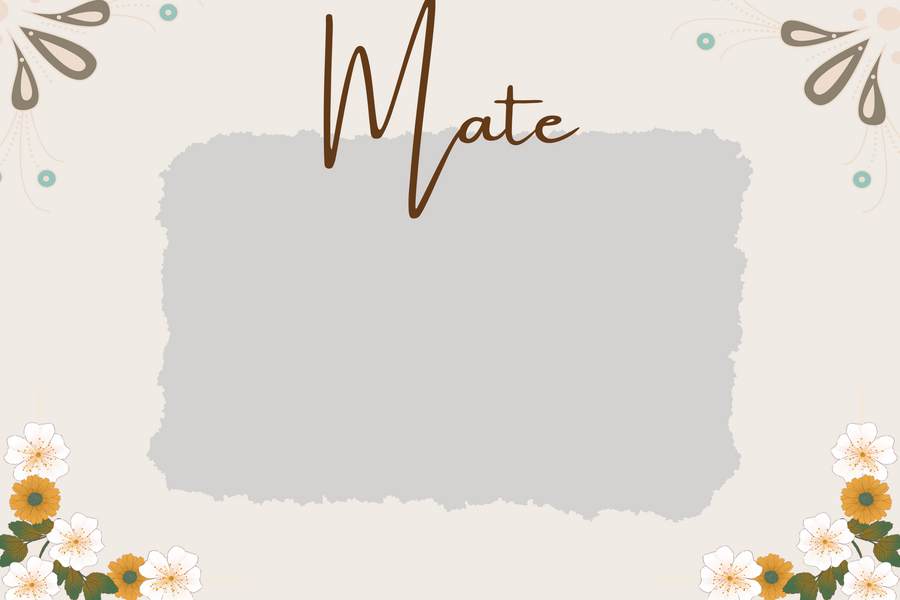
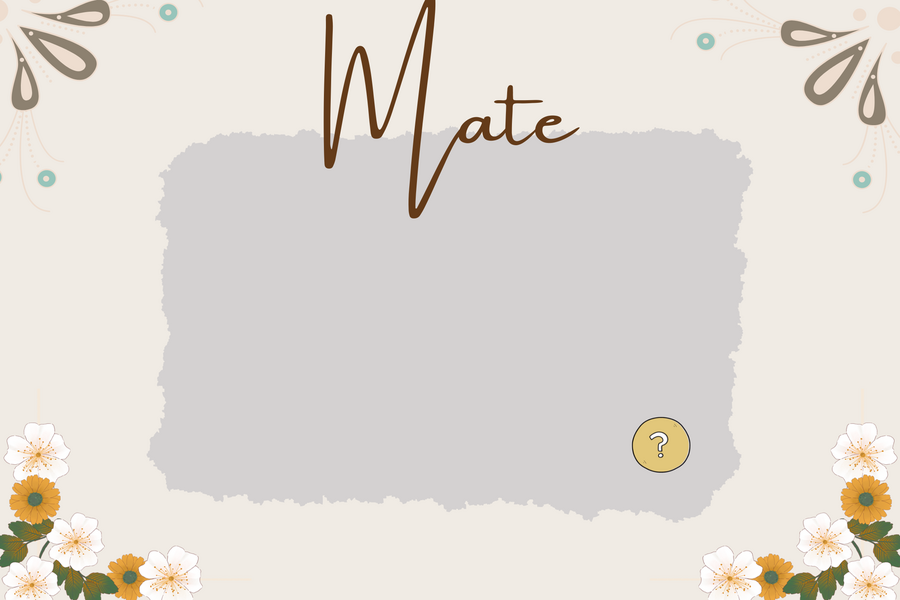
added forget password function.

Changed region(s): [[0.6844, 0.69, 0.7778, 0.81]]

diff --git a/display.py b/display.py
@@ -1,5 +1,9 @@
+import json
+import random
 import time
 import turtle
+
+from geopy.geocoders import Nominatim
 
 from interest import Interest
 from login import Login
@@ -17,7 +21,7 @@ class Display:
         self.loging = None
         self.mail = None
         self.interesting = None
-        self.weather = None
+        self.weather = Weather()
 
     def login_register_button(self) -> None:
         """This function is for login and register button."""
@@ -297,6 +301,67 @@ class Display:
         time.sleep(0.75)
         self.menu()
 
+    def forget_password(self) -> None:
+        """This function is for the user who forget their password."""
+        recovery = random.choice(
+            ["asdlkco", "iqowejoijao", "cmxlkwemqkm, 'kJSDoxcjwdo",
+             "aosjdij123", "1i2u381238ioajds", "jasjnxcjknqw",
+             "190827389712389aksljd", "asjhdjxzhclkiveieicc",
+             "kxcjoieqjcibqojnew", " 18923798123klsdackmldmklckmldklm",
+             "aksdhjlxjcioqjweiojewiojc"])
+        username = self.screen.textinput("Recovery", "What is your username?")
+        email = self.screen.textinput("Recovery", "What is your mail?")
+        with open("user.json", mode="r", encoding="utf-8") as data:
+            users = json.load(data)
+        if username and email:
+            if username in users:
+                if email == users[username]["Mail"]:
+                    password = users[username]["Password"]
+                    self.mail = Mail(Login(username, password, email))
+                    self.mail.send_mail(
+                        f"This is your recovery code '{recovery}' "
+                        f"(not include single quotes).")
+                    recovery_code = self.screen.textinput("Recovery",
+                                                          "Enter your "
+                                                          "recovery code: ")
+                    if recovery_code == recovery:
+                        new_password = self.screen.textinput("Recovery",
+                                                             "Enter your new "
+                                                             "password: ")
+                        with open("user.json", mode="r",
+                                  encoding="utf-8") as data:
+                            users = json.load(data)
+                        users[username]["Password"] = new_password
+                        with open("user.json", mode="w",
+                                  encoding="utf-8") as data:
+                            json.dump(users, data, indent=4)
+                        self.any_screen("Recovery",
+                                        "Your password was changed.")
+                        self.loging = Login(username, new_password, email)
+                        self.menu()
+                    else:
+                        self.any_screen("Error", "Wrong recovery code.")
+                        time.sleep(1.5)
+                        self.init_screen("mate", "background/main.png")
+                        self.login_register_button()
+                else:
+                    self.any_screen("Error", "Wrong email.")
+                    time.sleep(1.5)
+                    self.init_screen("mate", "background/main.png")
+                    self.login_register_button()
+
+            else:
+                self.any_screen("Error", "Not found your username.")
+                time.sleep(1.5)
+                self.init_screen("mate", "background/main.png")
+                self.login_register_button()
+
+        else:
+            self.any_screen("Error", "Needed to fill all input.")
+            time.sleep(1.5)
+            self.init_screen("mate", "background/main.png")
+            self.login_register_button()
+
     # Screen
     def init_screen(self, title: str, background: str) -> None:
         """This function is for init the screen."""
@@ -316,15 +381,18 @@ class Display:
 
     def function_choice(self, func) -> None:
         """This function is for function choice."""
-        ask = self.screen.textinput("", "show or exit? (s/e): ").lower()
-        while ask != "e":
-            if ask == "s":
-                self.any_screen("Wish!", func())
-            elif ask == "e":
-                break
-            else:
-                self.any_screen("Error", "Wrong input.")
-            ask = self.screen.textinput("", "show or exit? (s/e): ").lower()
+        ask = self.screen.textinput("", "show or exit? (s/e): ")
+        if ask:
+            while ask.lower() != "e":
+                if ask.lower() == "s":
+                    self.any_screen("Wish!", func())
+                elif ask.lower() == "e":
+                    break
+                else:
+                    self.any_screen("Error", "Wrong input.")
+                ask = self.screen.textinput("", "show or exit? (s/e): ")
+        else:
+            self.any_screen("Error", "Wrong input.")
         self.back_button()
 
     def any_screen(self, title: str = "", message: str = "",
@@ -338,17 +406,29 @@ class Display:
 
     def weather_screen(self) -> None:
         """This function is for weather screen."""
-        weather = Weather()
+        address = self.screen.textinput("Enter your location",
+                                        "In any languages.")
+        if address:
+            geolocator = Nominatim(user_agent="MyApp")
+            location = geolocator.geocode(address)
+            self.weather = Weather(location.latitude, location.longitude)
+            self.any_screen("Done", "Successfully update your location.")
+        else:
+            self.any_screen("Error", "Something went wrong, using bangkok "
+                                     "location instead.")
+            self.weather = Weather()
+        time.sleep(1.2)
+        self.any_screen(png="background/weather.png")
         for index in range(0, 6):
             self.writer.goto(-230, 120 - (index * 30))
-            self.writer.write(weather.show_weather()[index],
+            self.writer.write(self.weather.show_weather()[index],
                               font=('Arial', 15, 'normal'))
         for index in range(6, 12):
             self.writer.goto(55, 120 - ((index - 5) * 30))
-            self.writer.write(weather.show_weather()[index],
+            self.writer.write(self.weather.show_weather()[index],
                               font=('Arial', 15, 'normal'))
         try:
-            weather.show_weather()[12]
+            self.weather.show_weather()[12]
         except IndexError:
             pass
         else:
@@ -432,13 +512,16 @@ class Display:
                 self.any_screen("", "Wrong input.")
                 self.back_button()
 
-    def login_register_click(self, x_cor: (int, float), y_cor: (int, float)) -> None:
+    def login_register_click(self, x_cor: (int, float),
+                             y_cor: (int, float)) -> None:
         """This function is for login and register click."""
-        if 150 >= -150 <= x_cor:
+        if -150 <= x_cor <= 150:
             if 0 <= y_cor <= 50:
                 self.login()
             if -75 <= y_cor <= -25:
                 self.register()
+        if 170 <= x_cor <= 250 and -180 <= y_cor <= -110:
+            self.forget_password()
 
     def back_click(self, x_cor: (int, float), y_cor: (int, float)) -> None:
         """This function is for back click."""
@@ -475,9 +558,21 @@ class Display:
             self.writer.write("List of your interest:",
                               font=('Arial', 25, 'normal'))
             if self.interesting.interest:
-                for index, interest in enumerate(self.interesting.interest):
-                    self.writer.goto(-200, 100 - (index * 30))
-                    self.writer.write(interest, font=('Arial', 20, 'normal'))
+                if len(self.interesting.interest) < 8:
+                    for index, interest in enumerate(
+                            self.interesting.interest):
+                        self.writer.goto(-200, 100 - (index * 30))
+                        self.writer.write(interest,
+                                          font=('Arial', 20, 'normal'))
+                else:
+                    for index in range(0, 8):
+                        self.writer.goto(-200, 100 - (index * 30))
+                        self.writer.write(self.interesting.interest[index],
+                                          font=('Arial', 20, 'normal'))
+                    for index in range(8, len(self.interesting.interest)):
+                        self.writer.goto(80, 100 - ((index - 8) * 30))
+                        self.writer.write(self.interesting.interest[index],
+                                          font=('Arial', 20, 'normal'))
             else:
                 self.any_screen("", "No news found.")
             self.back_button()
@@ -516,9 +611,11 @@ class Display:
                                              "What kind of news are you "
                                              "interested? type in oneline. "
                                              "(Ex. 1 3 4 11) : ")
-
-            self.interesting.change_interest(interest)
-            self.any_screen("Success", "Your interest has been changed.")
+            if interest:
+                self.interesting.change_interest(interest)
+                self.any_screen("Success", "Your interest has been changed.")
+            else:
+                self.any_screen("Error", "Wrong input.")
             self.back_button()
 
         self.back_click(x_cor, y_cor)
@@ -563,7 +660,7 @@ class Display:
             while True:
                 deadline = self.screen.textinput(
                     "", "Enter the deadline date (day/month/year): ")
-                if deadline.count("/") != 2:
+                if not deadline or deadline.count("/") != 2:
                     self.any_screen("", "Wrong format. Try again.")
                     continue
                 break
@@ -622,15 +719,17 @@ class Display:
             convert_number_to_topic = {1: "Food", 2: "Song", 3: "Fortune",
                                        4: "Weather", 5: "News", 6: "Note",
                                        7: ""}
-            topics = [convert_number_to_topic[int(index)] for index in
-                      topics.split()]
-            mail.change_topics_to_send(topics)
-            self.any_screen("", "Topics changed.")
+            if topics:
+                topics = [convert_number_to_topic[int(index)] for index in
+                          topics.split()]
+                mail.change_topics_to_send(topics)
+                self.any_screen("", "Topics changed.")
+            else:
+                self.any_screen("Error", "Wrong input.")
             self.back_button()
 
         # Send mail
         if -305 < x_cor < -150 and -140 > y_cor > -200:
-            self.weather = Weather()
             self.interesting = Interest(self.loging)
             self.any_screen()
             self.writer.goto(-200, 100)

diff --git a/note.py b/note.py
@@ -47,9 +47,12 @@ class Note:
         with open('user.json', 'r', encoding='utf-8') as file:
             users = json.load(file)
             if self.user in users:
-                if deadline in users[self.user]['Note']:
-                    del users[self.user]['Note'][deadline]
-                else:
+                try:
+                    if deadline in users[self.user]['Note']:
+                        del users[self.user]['Note'][deadline]
+                    else:
+                        return False
+                except KeyError:
                     return False
         with open('user.json', 'w', encoding='utf-8') as file:
             json.dump(users, file, indent=4)
